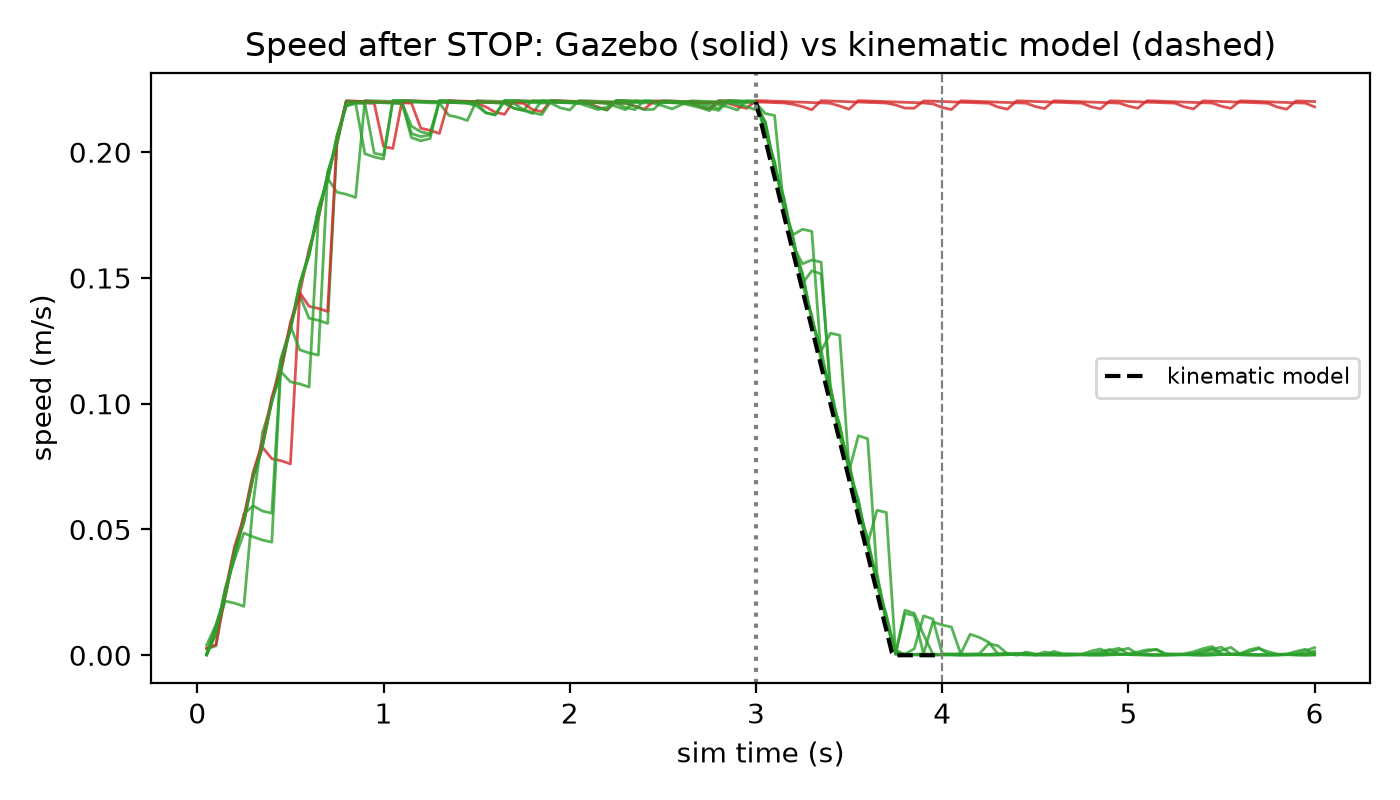
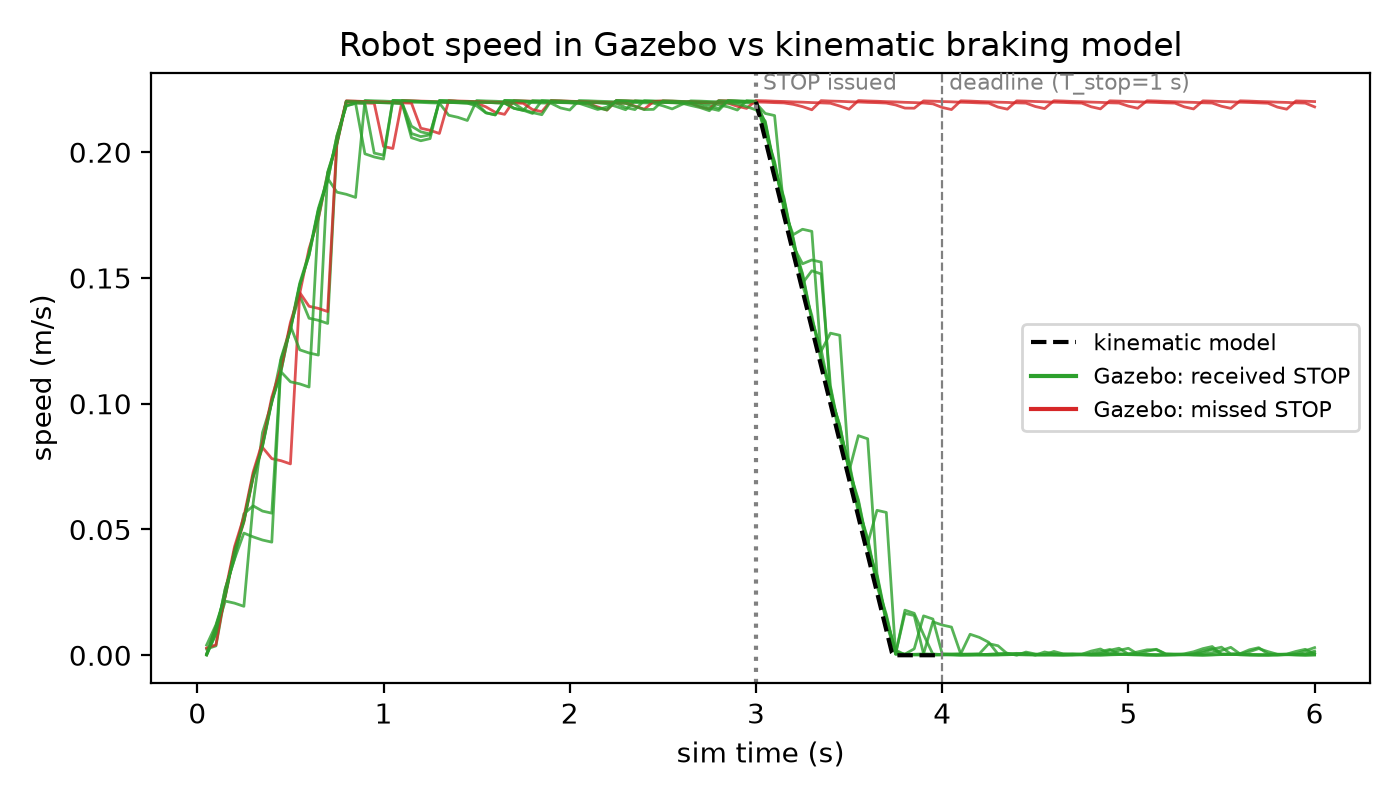
Clearer Gazebo plots; ignore .DS_Store

Changed region(s): [[0.1843, 0.0312, 0.9214, 0.125], [0.7371, 0.4062, 0.9829, 0.5625]]

diff --git a/gazebo/plot_gazebo_run.py b/gazebo/plot_gazebo_run.py
@@ -18,12 +18,15 @@ tag = os.path.basename(path)[:-4]
 os.makedirs(os.path.join(ROOT, "figures"), exist_ok=True)
 col = lambda f: "tab:red" if f == "DRIVE" else "tab:green"
 
-fig, ax = plt.subplots(figsize=(7, 4))
+fig, ax = plt.subplots(figsize=(5, 5.5))
 for i, d in tr.items():
     ax.plot(d["x"], d["y"], color=col(d["fate"]), lw=1.5)
     ax.plot(d["x"][-1], d["y"][-1], "o", color=col(d["fate"]), ms=6)
 ax.plot([], [], color="tab:green", label="received STOP"); ax.plot([], [], color="tab:red", label="missed STOP (latched DRIVE)")
-ax.set_xlabel("x (m)"); ax.set_ylabel("y (m)"); ax.set_aspect("equal"); ax.legend(fontsize=8, loc="upper left")
+ax.set_xlabel("x (m)"); ax.set_ylabel("y (m)"); ax.set_aspect("equal")
+ax.set_xlim(-0.1, max(max(d["x"]) for d in tr.values()) + 0.6)
+ax.axvline(min(d["x"][0] for d in tr.values()), color="lightgrey", lw=0.8)
+ax.legend(fontsize=8, loc="upper center", bbox_to_anchor=(0.5, -0.12), ncol=2, frameon=False)
 ax.set_title(f"Gazebo ground truth, N={summ['N']}, loss={summ['loss_rate']}, seed={summ['seed']}")
 plt.tight_layout(); plt.savefig(f"{ROOT}/figures/gazebo_{tag}_traj.png", dpi=200); plt.close()
 
@@ -33,7 +36,11 @@ for i, d in tr.items():
 tk = [t_stop + k * 0.01 for k in range(0, 101)]
 ax.plot(tk, [max(0.0, V_MAX - A_MAX * (t - t_stop)) for t in tk], "k--", lw=1.5, label="kinematic model")
 ax.axvline(t_stop, color="grey", ls=":"); ax.axvline(t_stop + 1.0, color="grey", ls="--", lw=0.8)
-ax.set_xlabel("sim time (s)"); ax.set_ylabel("speed (m/s)"); ax.legend(fontsize=8)
-ax.set_title("Speed after STOP: Gazebo (solid) vs kinematic model (dashed)")
+ax.text(t_stop, ax.get_ylim()[1], " STOP issued", va="top", fontsize=8, color="grey")
+ax.text(t_stop + 1.0, ax.get_ylim()[1], " deadline (T_stop=1 s)", va="top", fontsize=8, color="grey")
+ax.plot([], [], color="tab:green", label="Gazebo: received STOP")
+ax.plot([], [], color="tab:red", label="Gazebo: missed STOP")
+ax.set_xlabel("sim time (s)"); ax.set_ylabel("speed (m/s)"); ax.legend(fontsize=8, loc="center right")
+ax.set_title("Robot speed in Gazebo vs kinematic braking model")
 plt.tight_layout(); plt.savefig(f"{ROOT}/figures/gazebo_{tag}_speed.png", dpi=200); plt.close()
 print("saved figures/gazebo_%s_traj.png and _speed.png" % tag)
